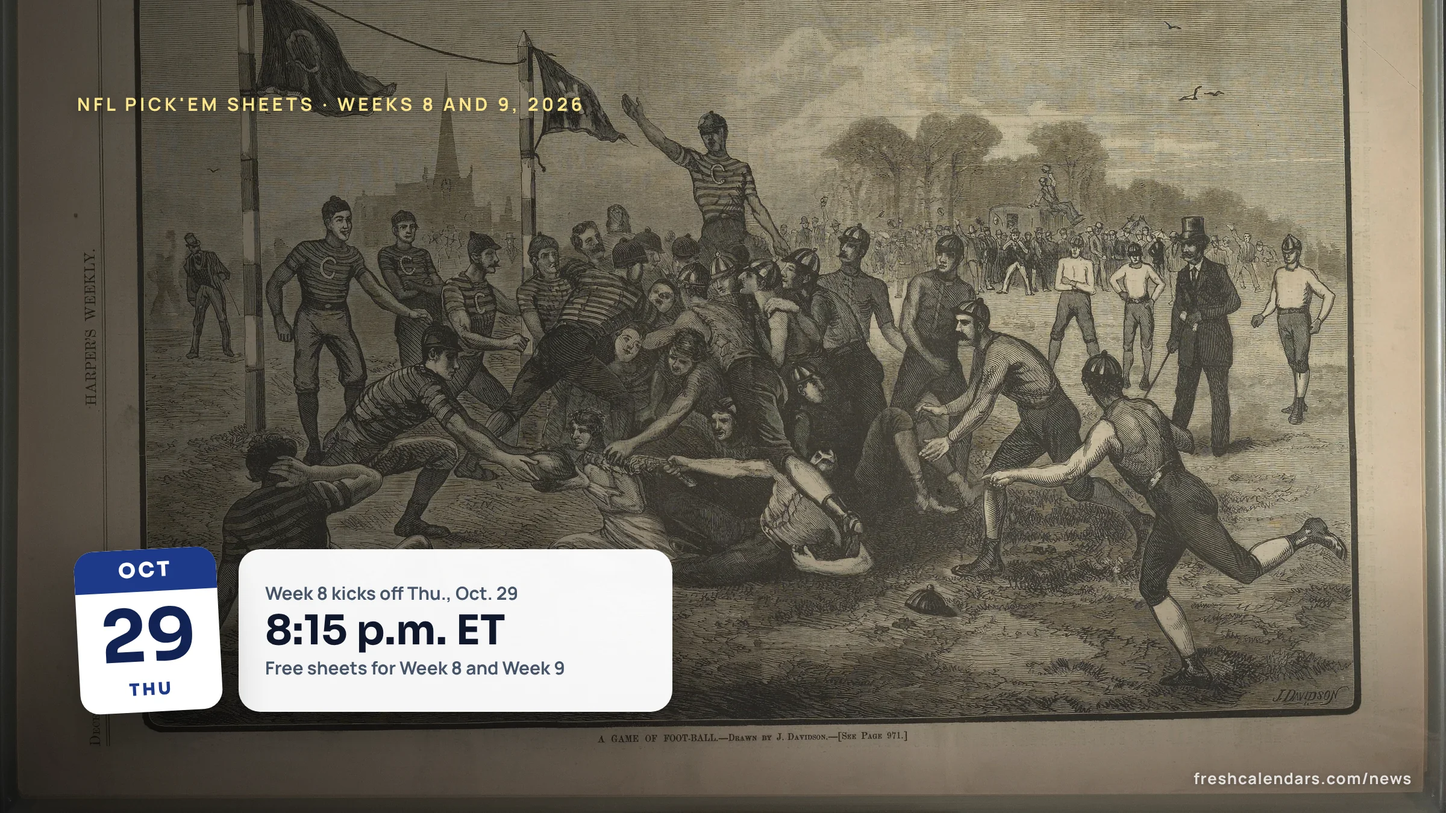
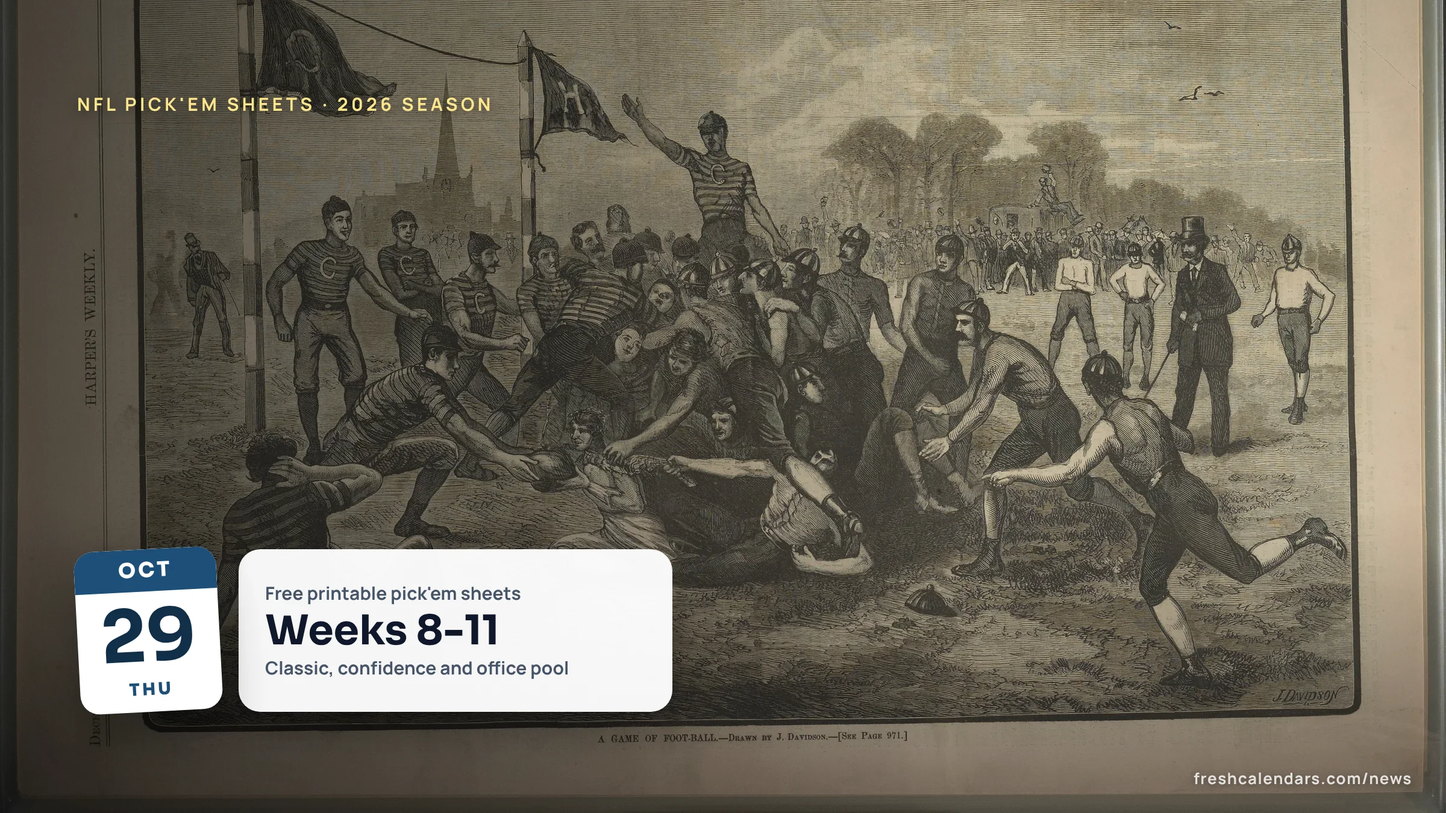
news: make printable NFL pick'em sheets the season hub and link the weekly stories to it
The pick'em hub had no inbound links and only covered Weeks 8 and 9, while the
Week 9, 10 and 11 schedule stories each carried their own sheet. The hub now
lists every week's sheets with game counts and tiebreaker games, targets the
season-long queries instead of week-specific ones, and gets a refreshed overlay.
The Week 8, 9, 10 and 11 schedule stories and the printable NFL schedule link
back to it.

Claude-Session: https://claude.ai/code/session_017b62z1uwWjf3WvEq8pz8pU

Changed region(s): [[0.1875, 0.7156, 0.4062, 0.84], [0.2188, 0.1244, 0.4062, 0.1556]]

diff --git a/apps/news/src/content/articles/2026/10/printable-nfl-pickem-sheets-2026.md b/apps/news/src/content/articles/2026/10/printable-nfl-pickem-sheets-2026.md
@@ -1,22 +1,22 @@
 ---
-title: "Printable NFL Pick'em Sheets 2026: Free Week 8 and Week 9 PDFs, Classic, Confidence and Office Pool"
-seoTitle: "Printable NFL Pick'em Sheets 2026: Weeks 8 and 9"
-description: "Free printable National Football League (NFL) pick'em sheets for Week 8 and Week 9, 2026: classic, confidence and office pool PDFs, Eastern Time (ET) kickoffs."
+title: "Printable NFL Pick'em Sheets 2026: Free Weekly PDFs, Confidence and Office Pool Sheets"
+seoTitle: "Printable NFL Pick'em Sheets 2026: Free Weekly PDFs"
+description: "Free printable National Football League (NFL) pick'em sheets for 2026: classic, confidence and office pool PDFs for Weeks 8 and 9, plus Weeks 10 and 11."
 type: explainer
 publishedAt: "2026-10-29T08:00:00-04:00"
-updatedAt: "2026-10-30T01:05:00-04:00"
+updatedAt: "2026-10-30T14:30:00-04:00"
 authors: [jordan-bennett]
 category: sports
-keywords: ["printable NFL pick'em sheets", "NFL Week 8 pick'em sheet", "NFL confidence pool sheet", "office football pool sheet", "NFL Week 9 pick'em sheet"]
+keywords: ["printable NFL pick'em sheets", "NFL pick'em sheet 2026", "NFL confidence pool sheet", "office football pool sheet", "printable football pool sheet"]
 assets:
   overlay: true
-  kicker: "NFL Pick'em Sheets · Weeks 8 and 9, 2026"
+  kicker: "NFL Pick'em Sheets · 2026 Season"
   date: "2026-10-29"
-  card: { top: "Week 8 kicks off Thu., Oct. 29", big: "8:15 p.m. ET", bottom: "Free sheets for Week 8 and Week 9" }
+  card: { top: "Free printable pick'em sheets", big: "Weeks 8-11", bottom: "Classic, confidence and office pool" }
 hero:
   src: ../../../../assets/news/printable-nfl-pickem-sheets-2026/printable-nfl-pickem-sheets-2026.webp
   alt: "An 1878 Harper's Weekly engraving of a football scrimmage, for printable NFL pick'em sheets 2026"
-  caption: "A game of foot-ball, drawn by J. O. Davidson for Harper's Weekly, Dec. 7, 1878. Week 8 of the 2026 NFL season began Thursday, Oct. 29."
+  caption: "A game of foot-ball, drawn by J. O. Davidson for Harper's Weekly, Dec. 7, 1878, for our weekly 2026 NFL pick'em sheets."
   credit: "Illustration: Julian Oliver Davidson, Harper's Weekly (1878) / Wikimedia Commons, cropped, edited"
   license:
     name: "Public domain"
@@ -26,7 +26,7 @@ hero:
 summary:
   - "Fresh Calendars offers free one-page NFL pick'em sheets for Week 8 (14 games, Oct. 29 to Nov. 2, 2026) and Week 9 (15 games, Nov. 5 to 9)."
   - "Each week has three formats: a classic pick'em sheet, a confidence pool sheet (points 1 to 14 in Week 8, 1 to 15 in Week 9) and an office pool grid."
-  - "Week 8 began Thursday, Oct. 29, 2026 (Packers 27, Panthers 19, per ESPN); the Sunday and Monday games remain, so sheets still work for those."
+  - "Weeks 10 and 11 each have a one-page pick'em sheet in their schedule stories, linked in the week-by-week table below."
   - "Every sheet comes in US Letter and A4, prints in black ink on white with thin rules, and names teams in plain text with no logos."
 faq:
   - q: "Are the NFL pick'em sheets free?"
@@ -53,7 +53,7 @@ internalLinks:
     label: "November 2026 printable calendar"
   - href: "/printable-weekly-calendar.html"
     label: "printable weekly calendar"
-related: [nfl-week-9-schedule-2026-printable-pick-em-sheet-game-times, nfl-week-11-schedule-2026-printable-pick-em-sheet-game-times, printable-nfl-schedule-2026-2027-pdf]
+related: [nfl-week-10-schedule-2026-printable-pick-em-sheet-game-times, nfl-week-11-schedule-2026-printable-pick-em-sheet-game-times, printable-nfl-schedule-2026-2027-pdf]
 draft: false
 downloads:
   - group: "NFL Week 8 Pick'em Sheets 2026"
@@ -154,9 +154,18 @@ downloads:
     pages: 1
 ---
 
-<p class="callout"><b>Updated Oct. 30, 2026, 1:05 a.m. ET.</b> Week 8 began Thursday, Oct. 29, 2026, when the Packers beat the Panthers 27-19, per ESPN. The Sunday, Nov. 1 and Monday, Nov. 2 games remain, so the sheets still work for the rest of the week.</p>
+**Fresh Calendars has free one-page printable pick'em sheets for the 2026 National Football League (NFL) season, built from the schedule on NFL.com with kickoffs in Eastern Time (ET).** Weeks 8 and 9 come in three formats: a classic pick'em sheet, a confidence pool sheet and an office pool grid, in US Letter and A4. Weeks 10 and 11 each have a one-page sheet in their schedule stories. Week 8 began Thursday, Oct. 29, when the Packers beat the Panthers 27-19, per ESPN; the Sunday and Monday games remain.
 
-**Fresh Calendars has free one-page printable pick'em sheets for National Football League (NFL) Week 8, which began Thursday, Oct. 29, 2026, at 8:15 p.m. Eastern Time (ET), and for Week 9, using the schedule on NFL.com.** Each week comes in three formats: a classic pick'em sheet, a confidence pool sheet and an office pool grid. The download box below has every PDF, in US Letter and A4, all designed to print in black ink on white.
+## NFL pick'em sheets by week
+
+| Week | Games | Dates | Tiebreaker game (Mon.) | Sheets |
+|---|---|---|---|---|
+| Week 8 | 14 | Oct. 29 to Nov. 2 | Bears at Seahawks | Classic, confidence, office pool (downloads below) |
+| Week 9 | 15 | Nov. 5 to 9 | Bills at Vikings | Classic, confidence, office pool (downloads below), and the [Week 9 schedule sheet](/news/nfl-week-9-schedule-2026-printable-pick-em-sheet-game-times/) |
+| Week 10 | 14 | Nov. 12 to 16 | Chargers at Ravens | [Week 10 pick'em sheet](/news/nfl-week-10-schedule-2026-printable-pick-em-sheet-game-times/) |
+| Week 11 | 13 | Nov. 19 to 23 | Bengals at Commanders | [Week 11 pick'em sheet](/news/nfl-week-11-schedule-2026-printable-pick-em-sheet-game-times/) |
+
+Game counts, dates and tiebreaker games come from NFL.com. Week 12 is Thanksgiving week and starts a day early, on Wednesday, Nov. 25; our [Thanksgiving football schedule](/news/thanksgiving-football-schedule-2026-nfl-college-games/) has those games.
 
 ## Which pick'em sheet should you print?
 

diff --git a/apps/news/src/content/articles/2026/10/nfl-week-9-schedule-2026-printable-pick-em-sheet-game-times.md b/apps/news/src/content/articles/2026/10/nfl-week-9-schedule-2026-printable-pick-em-sheet-game-times.md
@@ -80,7 +80,7 @@ internalLinks:
     label: "November 2026 printable calendar"
   - href: "/printable-weekly-calendar.html"
     label: "printable weekly calendar"
-related: [nfl-week-8-schedule-2026-game-times-tv-clock-change, printable-nfl-schedule-2026-2027-pdf, nfl-international-games-november-2026-madrid-munich-mexico-city-kickoff-times]
+related: [printable-nfl-pickem-sheets-2026, nfl-week-10-schedule-2026-printable-pick-em-sheet-game-times, nfl-international-games-november-2026-madrid-munich-mexico-city-kickoff-times]
 downloads:
   - group: "NFL Week 9 Pick'em Sheet 2026 printables"
     title: "NFL Week 9 Pick'em Sheet 2026"
@@ -145,7 +145,7 @@ NFL.com lists Bengals vs. Falcons on Sunday, Nov. 8 at 9:30 a.m. ET on NFL Netwo
 
 ## Is there a printable NFL Week 9 pick'em sheet?
 
-Yes. The one-page sheet lists all 15 games in kickoff order with the network, a blank for your pick and a blank for the final score, plus a tiebreaker line for the total points in Monday's Bills at Vikings game. It also has a tick box per row to mark each game as you score it. Pin it beside the [November 2026 printable calendar](/november-calendars.html) or a [printable weekly calendar](/printable-weekly-calendar.html), and fill in your picks before the Thursday kickoff.
+Yes. The one-page sheet lists all 15 games in kickoff order with the network, a blank for your pick and a blank for the final score, plus a tiebreaker line for the total points in Monday's Bills at Vikings game. It also has a tick box per row to mark each game as you score it. Pin it beside the [November 2026 printable calendar](/november-calendars.html) or a [printable weekly calendar](/printable-weekly-calendar.html), and fill in your picks before the Thursday kickoff. For a confidence pool or one shared office pool grid, our [printable NFL pick'em sheets](/news/printable-nfl-pickem-sheets-2026/) have both formats for Week 9.
 
 ## Which games are on Sunday, Nov. 8?
 

diff --git a/apps/news/src/content/articles/2026/10/nfl-week-8-schedule-2026-game-times-tv-clock-change.md b/apps/news/src/content/articles/2026/10/nfl-week-8-schedule-2026-game-times-tv-clock-change.md
@@ -77,7 +77,7 @@ internalLinks:
     label: "November 2026 printable calendar"
   - href: "/printable-weekly-calendar.html"
     label: "printable weekly calendar"
-related: [thursday-night-football-tonight-panthers-packers-tnf-schedule-2026, printable-nfl-schedule-2026-2027-pdf, daylight-saving-time-ends-november-1-2026]
+related: [printable-nfl-pickem-sheets-2026, printable-nfl-schedule-2026-2027-pdf, daylight-saving-time-ends-november-1-2026]
 downloads:
   - group: "NFL Week 8 Schedule 2026 printables"
     title: "NFL Week 8 Schedule 2026"
@@ -148,4 +148,4 @@ Yes. NFL.com lists Panthers at Packers on Thu., Oct. 29 at 8:15 p.m. ET on Prime
 
 ## Is there a printable NFL Week 8 schedule?
 
-Yes. The one-page printable lists all 14 games with date, Eastern kickoff and network, so you can pin it beside the [November 2026 printable calendar](/november-calendars.html) or a [printable weekly calendar](/printable-weekly-calendar.html). For every week of the season, see our [printable NFL schedule for 2026-2027](/news/printable-nfl-schedule-2026-2027-pdf/). Times can change, so check NFL.com on game day.
+Yes. The one-page printable lists all 14 games with date, Eastern kickoff and network, so you can pin it beside the [November 2026 printable calendar](/november-calendars.html) or a [printable weekly calendar](/printable-weekly-calendar.html). For every week of the season, see our [printable NFL schedule for 2026-2027](/news/printable-nfl-schedule-2026-2027-pdf/). For a Week 8 pool, our [printable NFL pick'em sheets](/news/printable-nfl-pickem-sheets-2026/) have classic, confidence and office pool versions. Times can change, so check NFL.com on game day.

diff --git a/apps/news/src/content/articles/2026/11/nfl-week-11-schedule-2026-printable-pick-em-sheet-game-times.md b/apps/news/src/content/articles/2026/11/nfl-week-11-schedule-2026-printable-pick-em-sheet-game-times.md
@@ -162,7 +162,7 @@ Yes, for Sunday. The NFL's flexible scheduling procedures say that for Sunday Ni
 
 ## Is there a printable NFL Week 11 pick'em sheet?
 
-Yes. The one-page sheet lists all 13 games in kickoff order with the network, a blank for your pick and a blank for the final score, plus a tiebreaker line for the total points in Monday's Bengals at Commanders game. Pin it beside the [November 2026 printable calendar](/november-calendars.html) or a [printable weekly calendar](/printable-weekly-calendar.html), and fill in your picks before the Thursday kickoff. Week 12 falls in Thanksgiving week; see [when is Thanksgiving](/when-is/thanksgiving/) and our [Thanksgiving football schedule](/news/thanksgiving-football-schedule-2026-nfl-college-games/).
+Yes. The one-page sheet lists all 13 games in kickoff order with the network, a blank for your pick and a blank for the final score, plus a tiebreaker line for the total points in Monday's Bengals at Commanders game. Pin it beside the [November 2026 printable calendar](/november-calendars.html) or a [printable weekly calendar](/printable-weekly-calendar.html), and fill in your picks before the Thursday kickoff. Our [printable NFL pick'em sheets](/news/printable-nfl-pickem-sheets-2026/) list the sheets for every week so far. Week 12 falls in Thanksgiving week; see [when is Thanksgiving](/when-is/thanksgiving/) and our [Thanksgiving football schedule](/news/thanksgiving-football-schedule-2026-nfl-college-games/).
 
 ## Which games are on Sunday, Nov. 22?
 

diff --git a/apps/news/src/content/articles/2026/10/nfl-week-10-schedule-2026-printable-pick-em-sheet-game-times.md b/apps/news/src/content/articles/2026/10/nfl-week-10-schedule-2026-printable-pick-em-sheet-game-times.md
@@ -144,7 +144,7 @@ NFL.com lists Patriots at Lions in Munich, Germany on Sunday, Nov. 15 at 9:30 a.
 
 ## Is there a printable NFL Week 10 pick'em sheet?
 
-Yes. The one-page sheet lists all 14 games in kickoff order with the network, a blank for your pick and a blank for the final score, plus a tiebreaker line for the total points in Monday's Chargers at Ravens game. It also has a tick box per row to mark each game as you score it. Pin it beside the [November 2026 printable calendar](/november-calendars.html) or a [printable weekly calendar](/printable-weekly-calendar.html), and fill in your picks before the Thursday kickoff.
+Yes. The one-page sheet lists all 14 games in kickoff order with the network, a blank for your pick and a blank for the final score, plus a tiebreaker line for the total points in Monday's Chargers at Ravens game. It also has a tick box per row to mark each game as you score it. Pin it beside the [November 2026 printable calendar](/november-calendars.html) or a [printable weekly calendar](/printable-weekly-calendar.html), and fill in your picks before the Thursday kickoff. Sheets for the other weeks are listed in our [printable NFL pick'em sheets](/news/printable-nfl-pickem-sheets-2026/) story.
 
 ## Which games are on Sunday, Nov. 15?
 

diff --git a/apps/news/src/content/articles/2026/10/printable-nfl-schedule-2026-2027-pdf.md b/apps/news/src/content/articles/2026/10/printable-nfl-schedule-2026-2027-pdf.md
@@ -81,7 +81,7 @@ internalLinks:
     label: "December 2026 printable calendar"
   - href: "/printable-weekly-calendar.html"
     label: "Printable weekly calendar"
-related: [thanksgiving-2026-tv-schedule-macys-parade-nfl-games, world-series-2026-schedule-game-times-tv-channel, nfl-week-8-schedule-2026-game-times-tv-clock-change]
+related: [printable-nfl-pickem-sheets-2026, thanksgiving-2026-tv-schedule-macys-parade-nfl-games, nfl-week-9-schedule-2026-printable-pick-em-sheet-game-times]
 corrections:
   - date: "2026-10-23T09:55:00-04:00"
     text: "An earlier version said Week 18 matchups are set after Week 17. The matchups are fixed; only their days and kickoff times are set after Week 17. The one-page planner that carried the error has been replaced."
